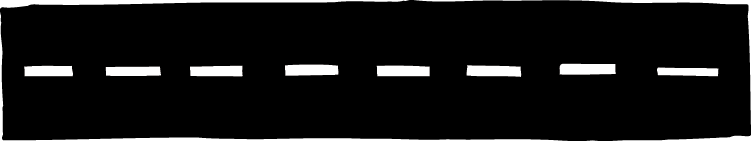
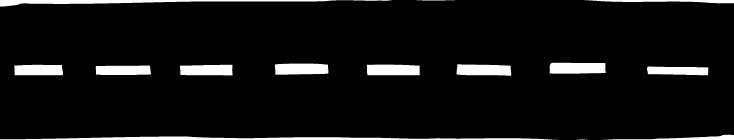
responsive fonts

diff --git a/website/public/stylesheets/alternative.css b/website/public/stylesheets/alternative.css
@@ -29,12 +29,13 @@ a {
 
 .landing_image {
   margin-left: 15%;
-  margin-top: 7%;
-  margin-bottom: 4.5%;
+  margin-top: 5%;
+  margin-bottom: 6.7%;
   overflow: auto;
+  width: 80%;
 }
 .massage_therapist_image {
-  width: 40%;
+  width: 42%;
   display: inline-block;
   float:left;
 }
@@ -42,20 +43,22 @@ a {
 .main_heading {
   display: inline-block;
   float:left;
-  width: 45%;
+  width: 58%;
 }
 
 .main_heading h1 {
   font-family: 'SensoryOverload', sans-serif;
   margin-left: -17%;
-  font-size: 5em;
+  font-size: 4.5em;
+  font-size: 8vh;
 }
 
 .main_heading p {
   font-family: 'JD', sans-serif;
   margin-left: 20%;
   margin-top: -4.8%;
-  font-size: 2.1em;
+  font-size: 1.7em;
+  font-size: 4vh
 }
 
 
@@ -131,6 +134,7 @@ a {
   text-align: center;
   font-size: 1.5em;
   letter-spacing: 0.1em;
+  font-size: 3vh;
 }
 
 .landing_text {
@@ -217,7 +221,7 @@ a {
   position:relative;
   display: inline-block;
   overflow: auto;
-  width: 300px;
+  width: 23%;
   height: 300px;
 }
 
@@ -227,10 +231,12 @@ a {
 
 
 .about_pictures {
-  margin: 0 auto;
+  margin: 10% auto;
   overflow: auto;
-  margin-top: 10%;
-  margin-bottom: 10%;
+  width: 100%;
+  display: block;
+  overflow: auto;
+  float: none;
 }
 
 .about_image:hover {
@@ -254,6 +260,7 @@ a {
 .section.education{
   margin-left: 4%;
   margin-right: 2%;
+  overflow: hidden;
 }
 
 .about h1, .reviews h1, .schedule h1, .contact h1, .rates h1 {
@@ -261,6 +268,11 @@ a {
   text-align: center;
   font-size: 7.5rem;
   margin-top: 2%;
+  font-size: 8vh;
+}
+
+.about_image.wrap {
+  width: 100%;
 }
 
 .about h1 {
@@ -269,11 +281,12 @@ a {
 
 .about_image h2{
   position:absolute;
-  width: 200px;
+  width: 70%;
   height: 100px;
-  top:100px;
-  left: 60px;
+  top:25%;
+  left: 25%;
   display:none;
+  font-size: 5vh;
 }
 
 /*MASSAGE BOX*/
@@ -297,10 +310,12 @@ border-image-slice: 18 15 15 17; border-image-width: 20px 20px 20px 20px; border
   font-weight: bold;
   letter-spacing: 0.4rem;
   clear: both;
+  font-size: 6vh;
 }
 
 .massage_info p, .education_info p, .resume_info p, .resume_info h2 {
   font-size: 1.7rem;
+  font-size: 2vh;
   font-family: 'Karla', sans-serif;
 }
 
@@ -332,11 +347,12 @@ border-image-slice: 18 15 15 17; border-image-width: 20px 20px 20px 20px; border
 }
 
 .company p {
-  height: 20rem;
+  height: 19vh;
+  font-size: 2.2vh;
 }
 
 .company img {
-  width: 100%;
+  width: 80%;
   clear: both;
   display: block;
   margin: 0 auto;
@@ -356,6 +372,7 @@ border-image-slice: 18 15 15 17; border-image-width: 20px 20px 20px 20px; border
 
 .direct_hire p {
   margin-bottom: 0;
+  font-size: 2.2vh;
 }
 
 .companies {
@@ -378,17 +395,23 @@ border-image-slice: 18 15 15 17; border-image-width: 20px 20px 20px 20px; border
 /*EDUCATION*/
 
 .education_info h3 {
-  font-size: 140%;
+  font-size: 1.2em;
+  font-size: 2.5vh;
   padding-top: 1em;
 }
 
 .education_info p {
   margin-bottom: 0.5rem;
+  font-size: 2.5vh;
   margin-top: 2%;
 }
 
 .education_info ul {
   margin-bottom: 1rem;
+}
+
+.education_info li {
+  font-size: 2vh;
 }
 
 .education_info .row {
@@ -434,10 +457,15 @@ border-image-slice: 18 15 15 17; border-image-width: 20px 20px 20px 20px; border
   margin-bottom: 0;
 }
 
+.resume_info input[type="text"], .resume_info input[type="email"] {
+  width: 80%;
+}
+
 .resume_info label {
   font-family: 'Karla', sans-serif;
   margin-bottom: 5%;
   font-size: 1.2em;
+  font-size: 2.2vh;
 }
 
 .resume_info label[for="comment"] {
@@ -449,7 +477,7 @@ border-image-slice: 18 15 15 17; border-image-width: 20px 20px 20px 20px; border
 }
 
 .resume_info textarea {
-  width: 27em;
+  width: 92%;
   height: 8em;
   margin-left: 0;
 }
@@ -480,6 +508,7 @@ border-image-slice: 18 15 15 17; border-image-width: 20px 20px 20px 20px; border
   width: 30%;
   font-size: 1em;
   letter-spacing: 0.2em;
+  font-size: 2vh;
 
 }
 /*REVIEWS*/
@@ -599,7 +628,7 @@ label {
   display: inline-block;
 }
 input[type="text"], input[type="password"], input[type="email"]{
-  width: 75%;
+  width: 92%;
   margin-left: 0.5em;
 }
 input[type="email"] {
@@ -637,6 +666,11 @@ legend {
   font-family: 'JD';
   font-size: 1.5em;
   margin-bottom: 0.5em;
+  font-size: 3vh;
+}
+
+.reviewBody {
+  width: 92%;
 }
 .formErrors {
   color: red;
@@ -735,6 +769,7 @@ legend {
   font-size: 1.5rem;
   margin-bottom: 4%;
   margin-top: 2%;
+  font-size: 2.5vh;
 }
 
 .contact.scrollable p {
@@ -742,6 +777,7 @@ legend {
   font-size: 2.3rem;
   margin-left: 15%;
   text-align: left;
+  font-size: 3.5vh;
 }
 
 .social_media.wrap {
@@ -766,6 +802,8 @@ legend {
   font-size: 3.2rem;
   margin-bottom: 1rem;
   text-align: left;
+  font-size: 4.5vh;
+
 }
 
 .contact.scrollable input[type='text'], .contact.scrollable textarea, .contact.scrollable input[type='email'] {
@@ -798,8 +836,7 @@ legend {
 }
 
 .road {
-  width: 105%;
-  margin-left: -2%;
+  width: 100%;
   margin-top: -5%;
   overflow: auto;
 }
@@ -864,7 +901,9 @@ legend {
 .rates .table .ten.columns {
   width: 73%;
 }
-
+.rates .table .three.columns p, .rates.scrollable .table .two.columns p {
+  margin-bottom: 2%;
+}
 .rates .table .four.columns {
   width: 49%;
 }
@@ -879,6 +918,11 @@ legend {
 
 .rates.scrollable p {
   font-size: 2rem;
+  font-size: 2.2vh;
+}
+
+.three.columns.blank {
+  height: 3vh;
 }
 
 .head {
@@ -890,8 +934,9 @@ legend {
 .rates.scrollable .head p {
   font-size: 1.6em;
   text-align: center;
-  margin-bottom: 0em;
+  margin-bottom: 3%;
   font-weight: bold;
+  font-size: 3vh;
 }
 
 .container.table .seven.columns, .table .four.columns.offset-by-four {
@@ -916,11 +961,13 @@ legend {
 
 .ten.columns .four.columns, .ten.columns .two.columns {
   margin: 0;
+  margin-bottom: 1.5%;
   padding: 0;
 }
 
 .blank {
   height: 3.8em;
+  height: 5vh;
 }
 
 .discounts p {
@@ -942,6 +989,7 @@ legend {
 
 .ten.columns.offset-by-four .four.columns p:nth-child(2) {
   font-size: 0.8em;
+  font-size: 1.5vh;
 }
 
 .ten.columns .description:first-child, .ten.columns .description:nth-child(3) {
@@ -959,13 +1007,14 @@ legend {
 }
 
 .rates .container {
-  width: 81%;
+  width: 95%;
   margin: 0 auto;
   overflow: hidden;
+  margin-bottom: 4%;
 }
 
-.rates .container.table {
-  margin-left: 11%;
+.rates.scrollable .four.columns p {
+  margin-bottom: 0.25%;
 }
 
 .rates. .offset-by-four {
@@ -983,22 +1032,24 @@ legend {
   margin-top: 10px;
   font-weight: bold;
   font-size: 3em;
+  font-size: 5vh;
 }
 
 
 .discounts .three.columns {
   background-color: black;
   color: white;
-  padding-top: 2%;
+  padding-top: 1%;
   padding-bottom: 1%;
   font-size: 1.3em;
   margin-bottom: 10%;
-  width: 30%;
+  width: 29%;
 }
 
 .rates.scrollable h5 {
   text-align: center;
-  margin-bottom: 3%;
+  margin-bottom: 2%;
+  font-size: 3vh;
 }
 
 .rates.scrollable .menu {
@@ -1010,9 +1061,9 @@ legend {
 
 .discount_wrap .sales {
   position: absolute;
-  width: 20%;
+  width: 15%;
   bottom: 9%;
-  left: 2%;
+  left: 5%;
   -webkit-transform: rotate(40deg);
   transform: rotate(225deg);
 }
@@ -1082,6 +1133,7 @@ legend {
   width: 80%;
   margin: 4% auto;
   font-size: 1.1em;
+  font-size: 2vh;
 }
 
 .wheel1 {
